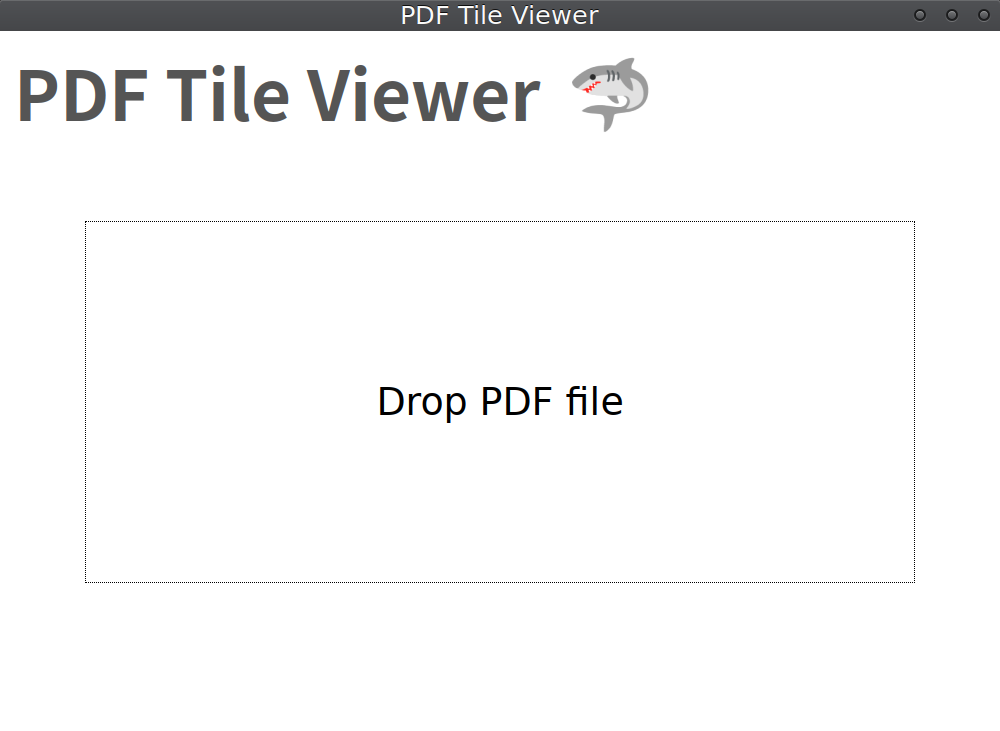
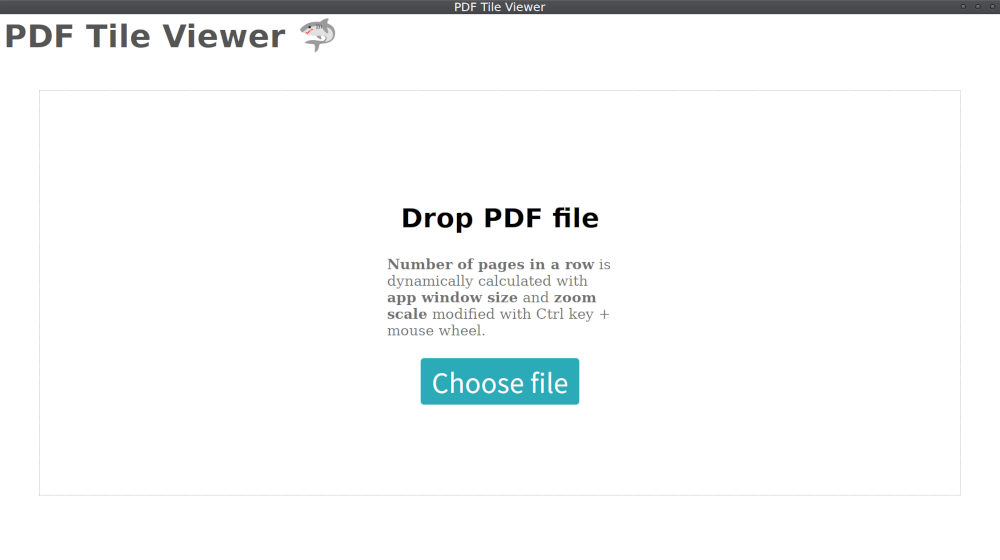
1.0.0-rc.16 (#48)
* ref #47 pwd unsupported now; all docs opened at backend

* fix #26 screenshots

* fix #29 range slider; ref #32 mitigate cut off

* ref #29 scale slider

diff --git a/src/components/DocumentViewer/PagesTileViewer.svelte b/src/components/DocumentViewer/PagesTileViewer.svelte
@@ -18,7 +18,7 @@
   const DEFAULT_SCALE: number = 1.0
   const SCALE_UNIT: number = 0.2
   const MIN_SCALE: number = SCALE_UNIT
-  const MAX_SCALE: number = 10.0
+  const MAX_SCALE: number = 5.0
 
   let scale: number = DEFAULT_SCALE
   let pdfDocument: PDFDocumentProxy
@@ -115,42 +115,72 @@
   }
 </script>
 
-{#if pdfDocument && pdfDocument.numPages}
-  {#each pageIndexesRows as pageIndexes}
-    <div class="row">
-      {#each pageIndexes as pageIndex}
-        <div class="col" bind:this={pageViewerContainers[pageIndex]}>
-          <div class="tile">
-            {#if searchResult && searchResult.matchedPageIndexes.includes(pageIndex)}
-              <div class="search-matched">Search matched</div>
-            {/if}
-            <div class="page">
-              <article>
-                <PageViewer
-                  {pdfDocument}
-                  {pageIndex}
-                  {scale}
-                  on:pageViewport={handlePageViewport}
-                />
-              </article>
-              <nav>
-                <div></div>
-                <div>{pageIndex + 1}</div>
-                <button class="zoom" on:click={() => showZoomedPage(pageIndex)} aria-label="zoom"
-                  >🧐</button
-                >
-              </nav>
+<nav class="scale">
+  <h4>Scale</h4>
+  <input type="range" min={MIN_SCALE} max={MAX_SCALE} step={SCALE_UNIT} bind:value={scale} />
+</nav>
+
+<div class="document">
+  {#if pdfDocument && pdfDocument.numPages}
+    {#each pageIndexesRows as pageIndexes}
+      <div class="row">
+        {#each pageIndexes as pageIndex}
+          <div class="col" bind:this={pageViewerContainers[pageIndex]}>
+            <div class="tile">
+              {#if searchResult && searchResult.matchedPageIndexes.includes(pageIndex)}
+                <div class="search-matched">Search matched</div>
+              {/if}
+              <div class="page">
+                <article>
+                  <PageViewer
+                    {pdfDocument}
+                    {pageIndex}
+                    {scale}
+                    on:pageViewport={handlePageViewport}
+                  />
+                </article>
+                <nav>
+                  <div></div>
+                  <div>{pageIndex + 1}</div>
+                  <button class="zoom" on:click={() => showZoomedPage(pageIndex)} aria-label="zoom"
+                    >🧐</button
+                  >
+                </nav>
+              </div>
             </div>
           </div>
-        </div>
-      {/each}
-    </div>
-  {/each}
-{/if}
+        {/each}
+      </div>
+    {/each}
+  {/if}
+</div>
 
 <ZoomedPageViewer pageIndex={zoomedPageIndex} {pdfDocument} />
 
 <style>
+  nav.scale {
+    position: fixed;
+    bottom: 1.1rem;
+    left: 0.7rem;
+    z-index: 1;
+    display: flex;
+    align-items: flex-end;
+  }
+  nav.scale h4 {
+    font-size: 0.7rem;
+    color: #878787;
+    padding: 0;
+    margin: 0;
+  }
+  nav.scale input {
+    width: 5.7rem;
+    margin-left: 0.6rem;
+  }
+
+  .document {
+    padding-bottom: 2.7rem;
+  }
+
   .row {
     display: flex;
   }

diff --git a/src/components/DocumentViewer/ZoomedPageViewer.svelte b/src/components/DocumentViewer/ZoomedPageViewer.svelte
@@ -7,7 +7,7 @@
   export let pdfDocument: PDFDocumentProxy
 
   let zoomViewScale: number = 3.0
-  let zoomViewOpacity: number = 1.0
+  let zoomViewTransparency: number = 0.0
   let windowScrollable: boolean = true
 
   $: {
@@ -33,22 +33,22 @@
 
 {#if pageIndex !== undefined}
   <div class="zoomView">
-    <div class="wrapper" style={`opacity: ${zoomViewOpacity};`}>
+    <div class="wrapper" style={`opacity: ${1.0 - zoomViewTransparency};`}>
       <PageViewer {pdfDocument} {pageIndex} scale={zoomViewScale} />
     </div>
     <nav>
       <span class="pageIndex">p.{pageIndex + 1}</span>
       <label class="window-scrollable"
-        >Window <u>{windowScrollable ? 'scrollable' : 'fixed'}</u>
+        >is Window: <u>{windowScrollable ? 'scrollable' : 'fixed'}</u>
         <input id="toggle-window-scrollable" type="checkbox" bind:checked={windowScrollable} />
       </label>
       <label
         >Scale
-        <input type="number" step="0.1" min="0.1" max="10.0" bind:value={zoomViewScale} />
+        <input type="range" step="0.1" min="0.1" max="10.0" bind:value={zoomViewScale} />
       </label>
       <label
         >Transparency
-        <input type="number" step="0.1" min="0.0" max="1.0" bind:value={zoomViewOpacity} />
+        <input type="range" step="0.1" min="0.0" max="1.0" bind:value={zoomViewTransparency} />
       </label>
       <button class="close" on:click={close}>Close</button>
     </nav>
@@ -68,6 +68,7 @@
   }
   .zoomView .wrapper {
     width: 100%;
+    min-height: calc(100% - 2rem);
     display: flex;
     justify-content: center;
     align-items: center;
@@ -88,15 +89,15 @@
     font-size: 1rem;
   }
   .window-scrollable {
-    width: 9.7em;
+    width: 11.2em;
     text-align: left;
     cursor: pointer;
   }
   .window-scrollable input {
     display: none;
   }
-  .zoomView nav input[type='number'] {
-    width: 3.2em;
+  .zoomView nav input[type='range'] {
+    width: 5.7em;
     text-align: right;
   }
   .zoomView nav button.close {

diff --git a/src/utils/pdf.ts b/src/utils/pdf.ts
@@ -5,9 +5,8 @@ import {
 } from 'pdfjs-dist'
 
 const getDocumentBuffer = async (filepath: string): Promise<ArrayBuffer> => {
-  const res = (await invoke('read_pdf', { filepath: filepath })) as Array<any>
-  const buffer = new Uint8Array(res).buffer
-  return buffer
+  const res = (await invoke('read_pdf', { filepath: filepath }))
+  return res as ArrayBuffer
 }
 
 const getDocumentProxy = async (buffer: ArrayBuffer): Promise<PDFDocumentProxy> => {

diff --git a/src-tauri/src/pdf.rs b/src-tauri/src/pdf.rs
@@ -14,11 +14,16 @@ pub fn read(filepath: &str) -> Result<Vec<u8>, String> {
         Err(err) => return Err(err),
     };
 
-    let mut buffer = Vec::new();
-    match file.read_to_end(&mut buffer) {
-        Ok(_) => {}
-        Err(err) => return Err(format!("Failed to read ({})", err)),
+    let pdfium = match pdfium() {
+        Ok(x) => x,
+        Err(err) => return Err(err),
     };
+    // todo: password protected doc support
+    let document = match pdfium.load_pdf_from_file(filepath, None) {
+        Ok(x) => x,
+        Err(err) => return Err(err.to_string()),
+    };
+    let buffer = document.save_to_bytes().expect("Failed to save as buffer");
     Ok(buffer)
 }
 
@@ -43,13 +48,12 @@ pub struct SearchResult {
 }
 
 pub fn search(search_term: &str, filepath: &str) -> Result<SearchResult, String> {
-    let pdfium = match std::panic::catch_unwind(|| {
-        Pdfium::new(pdfium_bind_to_library().expect("Failed to bind to pdfium lib"))
-    }) {
+    let pdfium = match pdfium() {
         Ok(x) => x,
-        Err(_) => return Err("libpdfium.so must be missing".to_owned()),
+        Err(err) => return Err(err),
     };
 
+    // todo: password protected doc support
     let document = pdfium
         .load_pdf_from_file(filepath, None)
         .expect("Failed to open file");
@@ -101,6 +105,16 @@ pub fn search(search_term: &str, filepath: &str) -> Result<SearchResult, String>
         buffer,
         page_indexes,
     })
+}
+
+fn pdfium() -> Result<Pdfium, String> {
+    let pdfium = match std::panic::catch_unwind(|| {
+        Pdfium::new(pdfium_bind_to_library().expect("Failed to bind to pdfium lib"))
+    }) {
+        Ok(x) => x,
+        Err(_) => return Err("libpdfium.so must be missing".to_owned()),
+    };
+    Ok(pdfium)
 }
 
 fn pdfium_bind_to_library() -> Result<Box<dyn PdfiumLibraryBindings>, PdfiumError> {
